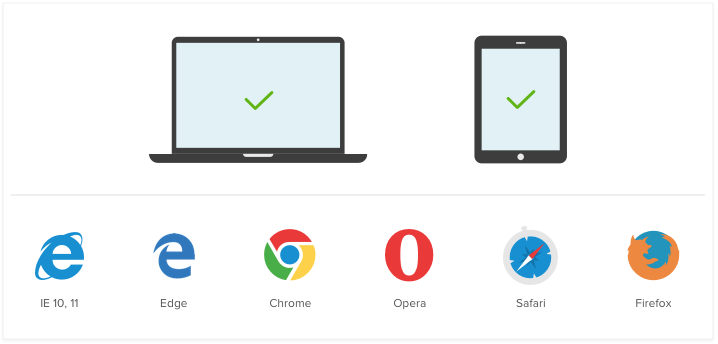
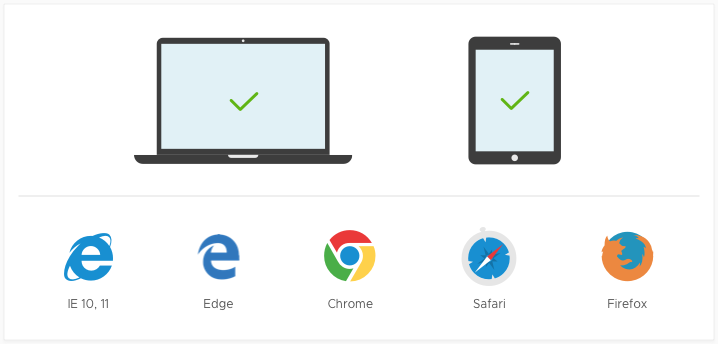
Formatting changes
Updated image in GS, removed link in badges

diff --git a/_documentation/badges.md b/_documentation/badges.md
@@ -40,5 +40,3 @@ Use a badge to show a tally or other quantity. For example, you might overlay a 
 {: .list}
 - For most badges, use the color palette specific to badges and labels.
 - For badges that indicate success, warning, or error, use Stoplight colors.
-
-See the [demo tab]({{ site.baseurl }}/documentation/badges) for badge colors.

diff --git a/get-started/index.md b/get-started/index.md
@@ -279,6 +279,8 @@ The Clarity team welcomes contributions from the community.  See our [contributi
 
 Ongoing work and feature requests are tracked using [GitHub Issues](https://github.com/vmware/clarity/issues){: target='_blank' }. Please feel free to file an issue.
 
+<hr>
+
 
 {: #attributions }
 # Attributions
